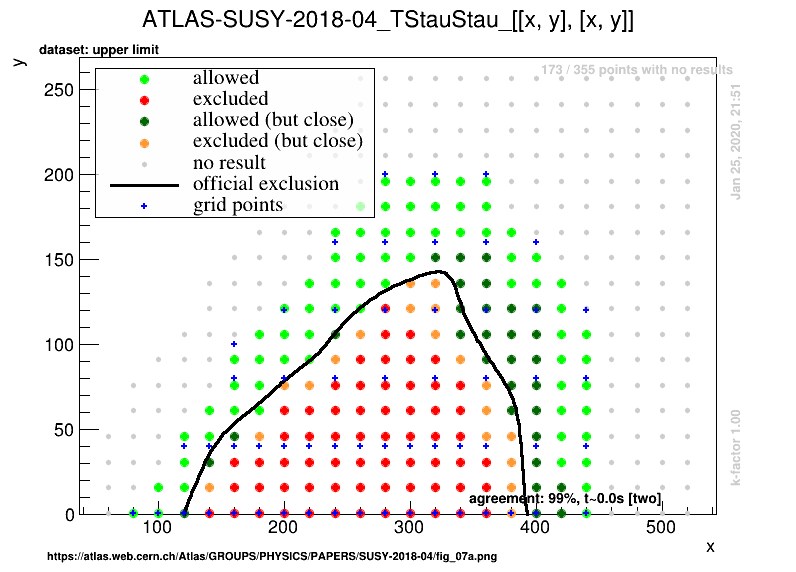
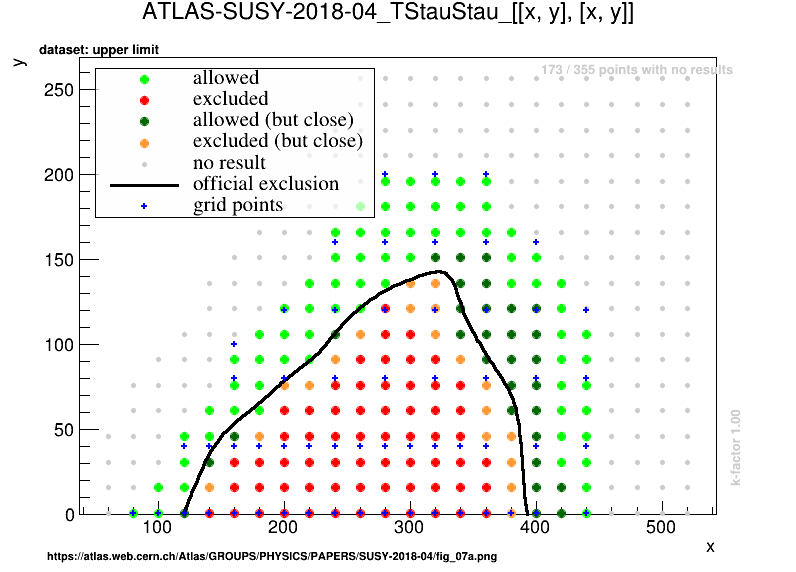
susy-2018-04-eff added

Changed region(s): [[0.1809, 0.0, 0.8141, 0.0594], [0.5729, 0.8619, 0.8442, 0.8916], [0.9045, 0.1486, 0.9347, 0.3566]]

diff --git a/docs/Validation123pyhf.md b/docs/Validation123pyhf.md
@@ -14,7 +14,7 @@ The validation procedure for upper limit maps used here is explained in [arXiv:1
 
 ### Run 2 - 13 TeV
  * [ATLAS upper limits](#ATLASupperlimits13): 2 analyses, 2 results
- * [ATLAS efficiency maps](#ATLASefficiencymaps13): 1 analyses, 1 results
+ * [ATLAS efficiency maps](#ATLASefficiencymaps13): 2 analyses, 2 results
 
 ### Run 1 - 8 TeV
 
@@ -29,10 +29,11 @@ The validation procedure for upper limit maps used here is explained in [arXiv:1
 
 
 <a name="ATLASefficiencymaps13"></a>
-## ATLAS efficiency maps, 13 TeV: 1 analyses, 1 results total
+## ATLAS efficiency maps, 13 TeV: 2 analyses, 2 results total
 
 | **Result** | **Txname** | **L [1/fb]** | **Validation plots** | **comment** |
 |------------|------------|--------------|----------------------|-------------|
+| [ATLAS-SUSY-2018-04](https://atlas.web.cern.ch/Atlas/GROUPS/PHYSICS/PAPERS/SUSY-2018-04/)| [TStauStau](SmsDictionary123pyhf#TStauStau)| 139.0|<a href="https://smodels.github.io/validation/123pyhf/13TeV/ATLAS/ATLAS-SUSY-2018-04-eff/validation/TStauStau_2EqMassAx_EqMassBy_pretty.png"><img src="https://smodels.github.io/validation/123pyhf/13TeV/ATLAS/ATLAS-SUSY-2018-04-eff/validation/TStauStau_2EqMassAx_EqMassBy_pretty.png" /></a>  | <img src="https://smodels.github.io/pics/new.png" /> in 1.2.3pyhf!  |
 | [ATLAS-SUSY-2018-31](https://atlas.web.cern.ch/Atlas/GROUPS/PHYSICS/PAPERS/SUSY-2018-31/)| [T6bbHH](SmsDictionary123pyhf#T6bbHH)| 139.0|<a href="https://smodels.github.io/validation/123pyhf/13TeV/ATLAS/ATLAS-SUSY-2018-31-eff/validation/T6bbHH_2EqMassAx_EqMassBy_EqMassCy-130.0_pretty.png"><img src="https://smodels.github.io/validation/123pyhf/13TeV/ATLAS/ATLAS-SUSY-2018-31-eff/validation/T6bbHH_2EqMassAx_EqMassBy_EqMassCy-130.0_pretty.png" /></a><BR><a href="https://smodels.github.io/validation/123pyhf/13TeV/ATLAS/ATLAS-SUSY-2018-31-eff/validation/T6bbHH_2EqMassAx_EqMassBy_EqMassC60.0_pretty.png"><img src="https://smodels.github.io/validation/123pyhf/13TeV/ATLAS/ATLAS-SUSY-2018-31-eff/validation/T6bbHH_2EqMassAx_EqMassBy_EqMassC60.0_pretty.png" /></a>  | <img src="https://smodels.github.io/pics/new.png" /> in 1.2.3pyhf!  |
 
-This page was created Sat Jan 25 21:52:47 2020
+This page was created Sun Jan 26 13:01:56 2020

diff --git a/docs/ValidationUgly123pyhf.md b/docs/ValidationUgly123pyhf.md
@@ -17,7 +17,7 @@ To [official validation plots](Validation123pyhf)
 
 ### Run 2 - 13 TeV
  * [ATLAS upper limits](#ATLASupperlimits13): 2 analyses, 2 results
- * [ATLAS efficiency maps](#ATLASefficiencymaps13): 1 analyses, 1 results
+ * [ATLAS efficiency maps](#ATLASefficiencymaps13): 2 analyses, 2 results
 
 ### Run 1 - 8 TeV
 
@@ -32,10 +32,11 @@ To [official validation plots](Validation123pyhf)
 
 
 <a name="ATLASefficiencymaps13"></a>
-## ATLAS efficiency maps, 13 TeV: 1 analyses, 1 results total
+## ATLAS efficiency maps, 13 TeV: 2 analyses, 2 results total
 
 | **Result** | **Txname** | **L [1/fb]** | **Validated?** | **Validation plots** | **comment** |
 |------------|------------|--------------|----------------|----------------------|-------------|
+| [ATLAS-SUSY-2018-04](https://atlas.web.cern.ch/Atlas/GROUPS/PHYSICS/PAPERS/SUSY-2018-04/)| [TStauStau](SmsDictionary123pyhf#TStauStau)| 139.0| tbd |<a href="https://smodels.github.io/validation/123pyhf/13TeV/ATLAS/ATLAS-SUSY-2018-04-eff/validation/TStauStau_2EqMassAx_EqMassBy.png"><img src="https://smodels.github.io/validation/123pyhf/13TeV/ATLAS/ATLAS-SUSY-2018-04-eff/validation/TStauStau_2EqMassAx_EqMassBy.png" /></a>  | <img src="https://smodels.github.io/pics/new.png" /> in 1.2.3pyhf!  |
 | [ATLAS-SUSY-2018-31](https://atlas.web.cern.ch/Atlas/GROUPS/PHYSICS/PAPERS/SUSY-2018-31/)| [T6bbHH](SmsDictionary123pyhf#T6bbHH)| 139.0| tbd |<a href="https://smodels.github.io/validation/123pyhf/13TeV/ATLAS/ATLAS-SUSY-2018-31-eff/validation/T6bbHH_2EqMassAx_EqMassBy_EqMassC60.0.png"><img src="https://smodels.github.io/validation/123pyhf/13TeV/ATLAS/ATLAS-SUSY-2018-31-eff/validation/T6bbHH_2EqMassAx_EqMassBy_EqMassC60.0.png" /></a><BR><a href="https://smodels.github.io/validation/123pyhf/13TeV/ATLAS/ATLAS-SUSY-2018-31-eff/validation/T6bbHH_2EqMassAx_EqMassBy_EqMassCy-130.0.png"><img src="https://smodels.github.io/validation/123pyhf/13TeV/ATLAS/ATLAS-SUSY-2018-31-eff/validation/T6bbHH_2EqMassAx_EqMassBy_EqMassCy-130.0.png" /></a>  | <img src="https://smodels.github.io/pics/new.png" /> in 1.2.3pyhf!  |
 
-This page was created Sat Jan 25 21:52:48 2020
+This page was created Sun Jan 26 13:01:58 2020

diff --git a/docs/ListOfAnalyses123pyhfWithSuperseded.md b/docs/ListOfAnalyses123pyhfWithSuperseded.md
@@ -2,14 +2,14 @@
 
 # List Of Analyses 1.2.3pyhf (including superseded results)
 List of analyses and topologies in the SMS results database,
-comprising 5 individual maps from 5 distinct signal regions, 2 different SMS topologies, from a total of 2 analyses.
+comprising 7 individual maps from 7 distinct signal regions, 2 different SMS topologies, from a total of 2 analyses.
 The list has been created from the database version `1.2.3pyhf`.
 Results from FastLim are included. There is also an  [sms dictionary](SmsDictionary123pyhf) and a [validation page](Validation123pyhf).
 Link to list of results [without superseded results](ListOfAnalyses123pyhf).
     ## Individual tables
 ### Run 2 - 13 TeV
  * [ATLAS upper limits](#ATLASupperlimits13): 2  analyses, 2  results
- * [ATLAS efficiency maps](#ATLASefficiencymaps13): 1  analyses, 1  results
+ * [ATLAS efficiency maps](#ATLASefficiencymaps13): 2  analyses, 2  results
 ### Run 1 - 8 TeV
 
 <a name="ATLASupperlimits13"></a>
@@ -22,11 +22,12 @@ Link to list of results [without superseded results](ListOfAnalyses123pyhf).
 | [ATLAS-SUSY-2018-31](https://atlas.web.cern.ch/Atlas/GROUPS/PHYSICS/PAPERS/SUSY-2018-31/)<a name="ATLAS-SUSY-2018-31"></a> | higgs + b-jets + MET | 139.0 | [T6bbHH](SmsDictionary123pyhf#T6bbHH) | | |
 
 <a name="ATLASefficiencymaps13"></a>
-## ATLAS, efficiency maps, 13 TeV (1 analyses)
+## ATLAS, efficiency maps, 13 TeV (2 analyses)
 
 | **ID** | **short description** | **L [1/fb]** | **Tx names** | **superseded by** | **llhds** |
 |--------|-----------------------|--------------|--------------|-------------------|-----------|
 | **Publications** | | | | | |
+| [ATLAS-SUSY-2018-04](https://atlas.web.cern.ch/Atlas/GROUPS/PHYSICS/PAPERS/SUSY-2018-04/)<a name="ATLAS-SUSY-2018-04"></a> | 2 hadronic taus | 139.0 | [TStauStau](SmsDictionary123pyhf#TStauStau) | |&#10004; |
 | [ATLAS-SUSY-2018-31](https://atlas.web.cern.ch/Atlas/GROUPS/PHYSICS/PAPERS/SUSY-2018-31/)<a name="ATLAS-SUSY-2018-31"></a> | higgs + b-jets + MET | 139.0 | [T6bbHH](SmsDictionary123pyhf#T6bbHH) | |&#10004; |
 
 

diff --git a/docs/ListOfAnalyses123pyhf.md b/docs/ListOfAnalyses123pyhf.md
@@ -2,14 +2,14 @@
 
 # List Of Analyses 1.2.3pyhf 
 List of analyses and topologies in the SMS results database,
-comprising 5 individual maps from 5 distinct signal regions, 2 different SMS topologies, from a total of 2 analyses.
+comprising 7 individual maps from 7 distinct signal regions, 2 different SMS topologies, from a total of 2 analyses.
 The list has been created from the database version `1.2.3pyhf`.
 Results from FastLim are included. There is also an  [sms dictionary](SmsDictionary123pyhf) and a [validation page](Validation123pyhf).
 Link to list of results [including superseded results](ListOfAnalyses123pyhfWithSuperseded).
     ## Individual tables
 ### Run 2 - 13 TeV
  * [ATLAS upper limits](#ATLASupperlimits13): 2  analyses, 2  results
- * [ATLAS efficiency maps](#ATLASefficiencymaps13): 1  analyses, 1  results
+ * [ATLAS efficiency maps](#ATLASefficiencymaps13): 2  analyses, 2  results
 ### Run 1 - 8 TeV
 
 <a name="ATLASupperlimits13"></a>
@@ -22,11 +22,12 @@ Link to list of results [including superseded results](ListOfAnalyses123pyhfWith
 | [ATLAS-SUSY-2018-31](https://atlas.web.cern.ch/Atlas/GROUPS/PHYSICS/PAPERS/SUSY-2018-31/)<a name="ATLAS-SUSY-2018-31"></a> | higgs + b-jets + MET | 139.0 | [T6bbHH](SmsDictionary123pyhf#T6bbHH) | |
 
 <a name="ATLASefficiencymaps13"></a>
-## ATLAS, efficiency maps, 13 TeV (1 analyses)
+## ATLAS, efficiency maps, 13 TeV (2 analyses)
 
 | **ID** | **short description** | **L [1/fb]** | **Tx names** | **llhds** |
 |--------|-----------------------|--------------|--------------|-----------|
 | **Publications** | | | | |
+| [ATLAS-SUSY-2018-04](https://atlas.web.cern.ch/Atlas/GROUPS/PHYSICS/PAPERS/SUSY-2018-04/)<a name="ATLAS-SUSY-2018-04"></a> | 2 hadronic taus | 139.0 | [TStauStau](SmsDictionary123pyhf#TStauStau) |&#10004; |
 | [ATLAS-SUSY-2018-31](https://atlas.web.cern.ch/Atlas/GROUPS/PHYSICS/PAPERS/SUSY-2018-31/)<a name="ATLAS-SUSY-2018-31"></a> | higgs + b-jets + MET | 139.0 | [T6bbHH](SmsDictionary123pyhf#T6bbHH) |&#10004; |
 
 
